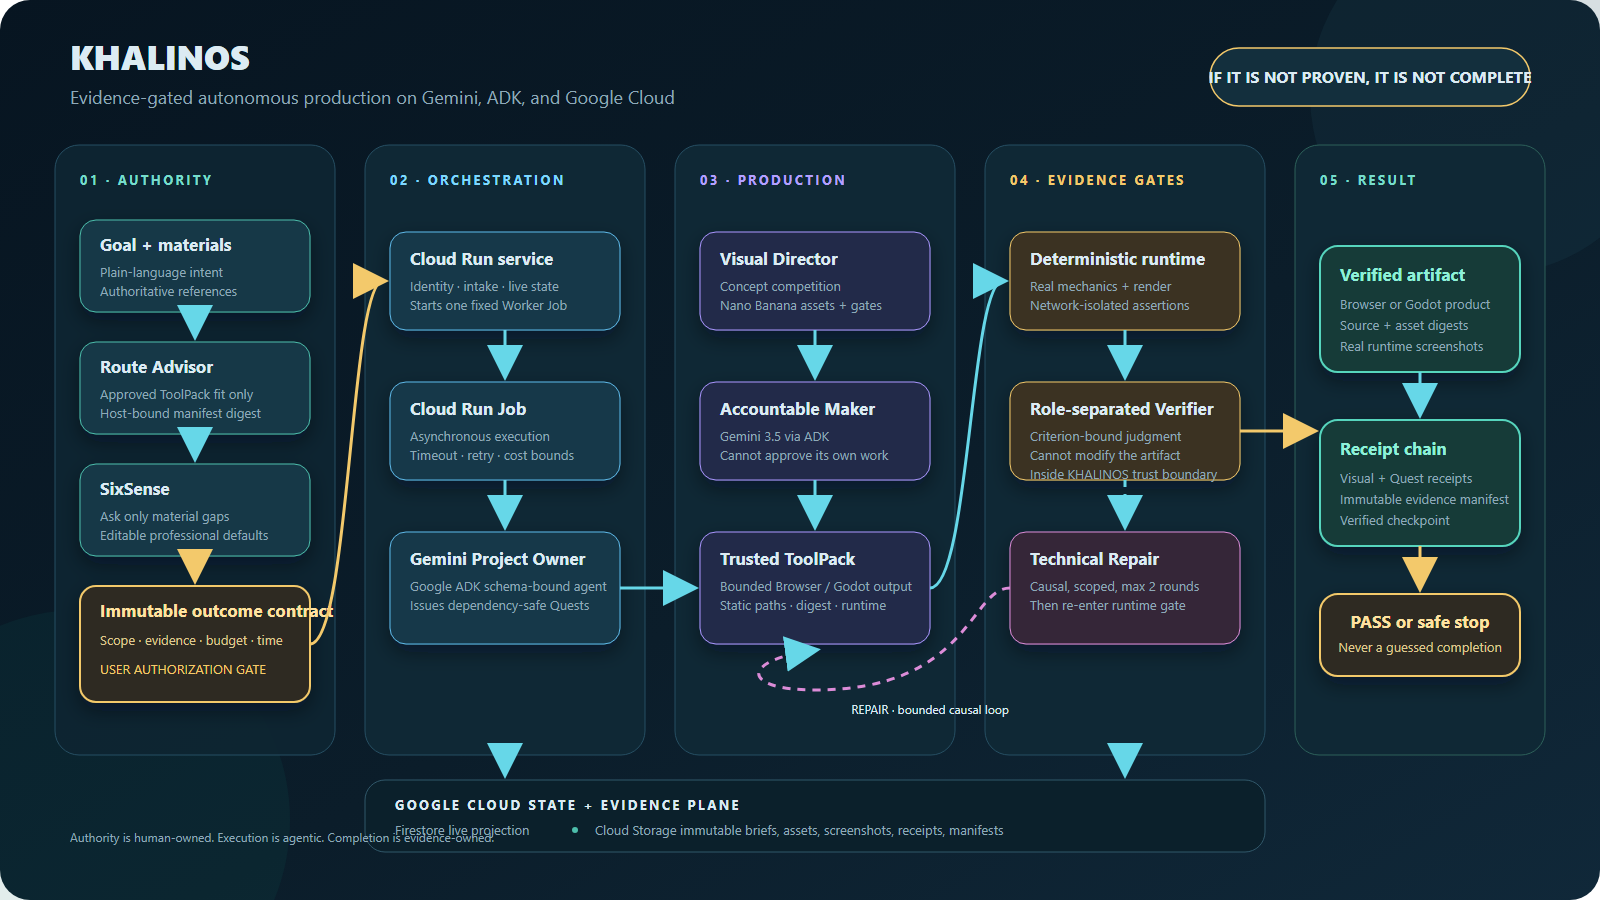
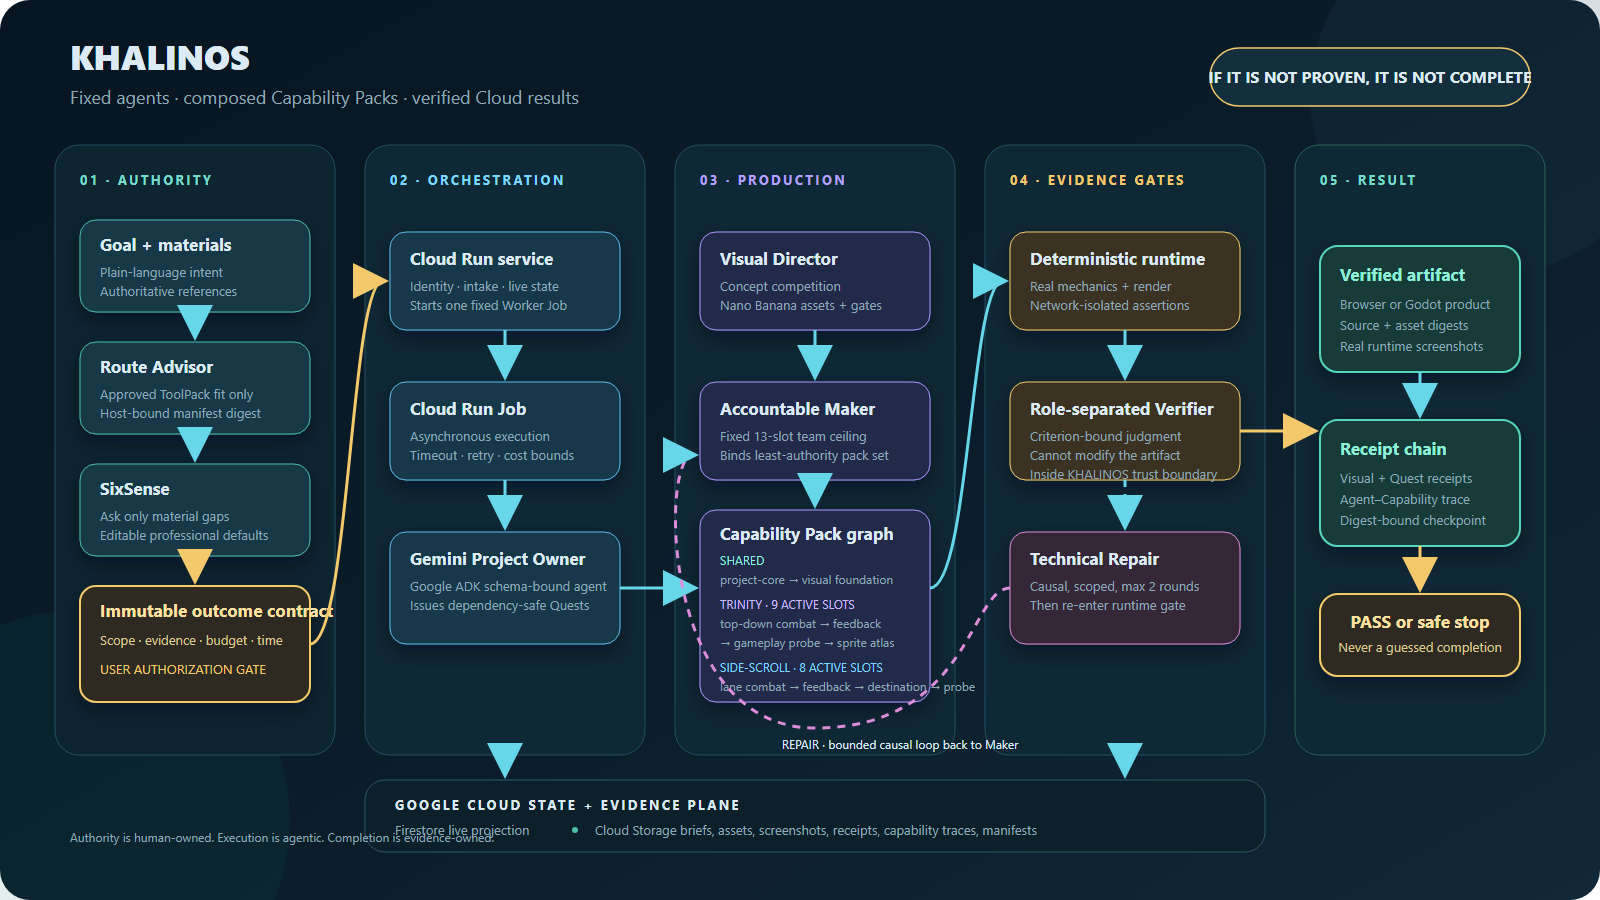
Document two-profile capability composition

diff --git a/README.md b/README.md
@@ -4,7 +4,7 @@
 
 > If it is not proven, it is not complete.
 
-KHALINOS is not a general-purpose coding chatbot and does not promise arbitrary repository completion. It separates authority, production, runtime verification, and judgment so the user does not become the hidden workflow engine. For a new project, a bounded Route Advisor compares the goal only with statically approved ToolPack manifests, explains exact fits, bounded alternatives, and incompatible routes, and waits for the user's confirmation. SixSense then inspects six project dimensions inside that selected capability boundary, asking only material unanswered questions. After authorization, a Gemini Project Owner issues an incremental Quest chain. Maker, deterministic Runtime Check, a separation-of-duties Verifier, and bounded Technical Repair remain separated by permissions and receipts. Browser products use multimodal visual selection; Godot has separate topology, Nano Banana visual-prototype, and bounded 2D gameplay vertical-slice profiles.
+KHALINOS is not a general-purpose coding chatbot and does not promise arbitrary repository completion. It separates authority, production, runtime verification, and judgment so the user does not become the hidden workflow engine. For a new project, a bounded Route Advisor compares the goal only with statically approved ToolPack manifests, explains exact fits, bounded alternatives, and incompatible routes, and waits for the user's confirmation. SixSense then inspects six project dimensions inside that selected capability boundary, asking only material unanswered questions. After authorization, a Gemini Project Owner issues an incremental Quest chain. Maker, deterministic Runtime Check, a separation-of-duties Verifier, and bounded Technical Repair remain separated by permissions and receipts. Browser products use multimodal visual selection. Godot work is composed from versioned Capability Packs: the verified top-down Trinity and side-scroll destination profiles share project, visual-foundation, and combat-feedback boundaries while retaining genre-specific mechanics and probes.
 
 The public entrance separates a no-sign-in Judge Demo from private work. Google OpenID Connect uses only `openid`, `email`, and `profile`; the verified Google subject is the owner boundary for uploads, intakes, runs, and Project Library records. A passed run registers its artifact digest, immutable source ZIP snapshot, and receipt chain as the project's latest verified checkpoint. External browser projects enter through an owner-bound Cloud Storage resumable session and deterministic ZIP admission before SixSense can reference them.
 
@@ -48,16 +48,17 @@ For judging, **Try Judge Demo** loads a bounded PUZZLE input-repair example with
 
 [![KHALINOS architecture: authority to verified result](docs/architecture/khalinos-architecture.svg)](docs/architecture/khalinos-architecture.svg)
 
-The standalone diagram shows the full authority boundary, Gemini/ADK orchestration, trusted ToolPack execution, deterministic and separation-of-duties evidence gates, bounded repair loop, and Google Cloud state/evidence plane. A 1600×900 [PNG export](docs/architecture/khalinos-architecture.png) is included for the Devpost page and demo video.
+The standalone diagram shows the full authority boundary, Gemini/ADK orchestration, fixed Agent–Capability bindings, the shared Godot Capability Pack graph, deterministic and separation-of-duties evidence gates, bounded repair loop, and Google Cloud state/evidence plane. A 1600×900 [PNG export](docs/architecture/khalinos-architecture.png) is included for the Devpost page and demo video.
 
 ## Safety and autonomy contract
 
-- The user authorizes one fixed five-file output surface and hard Quest/repair limits.
+- The user authorizes the selected ToolPack's exact bounded output surface and hard Quest/repair limits.
 - External ZIP admission currently accepts only that exact bounded browser profile. Godot, Unity, executables, symlinks, encrypted entries, traversal paths, extra files, oversized text, and high-ratio archives are rejected before execution.
 - The 30-minute setting is a per-execution runaway safety slice, not a general project deadline. The current browser micro-app profile is intentionally non-resumable, so an authorized run must fit one slice.
 - Browser new-product visual selection requires at least two deterministically renderable candidates and records raw-asset gate receipts, asset digests, the concept plan, screenshots, rubric scores, selected artifact digest, and selection receipt.
 - Godot visual-prototype selection has the same two-candidate minimum, but the host compiles every accepted PNG into bounded Godot scenes, imports the texture, proves scene loading and translucent composition, and captures three real 1280×720 frames through an isolated Xvfb display before multimodal selection.
-- Godot gameplay selection compiles a structured 2D top-down plan into a trusted scene and script. Its deterministic runtime probe must execute movement, enemy spawning, automatic abilities, shared health, and level choice before the separation-of-duties verifier can PASS; a real rendered gameplay frame and trusted visual-asset digest are also required.
+- Godot gameplay composition validates pack dependencies before materialization. The Trinity profile owns top-down survival mechanics, profession progression, gameplay probe, and sprite atlas; the side-scroll profile owns lane combat, destination progression, and its genre probe. Both consume `godot.combat-feedback`, which owns only attack-line, attack-range, basic-attack, skill/heal, and enemy-attack drawing primitives.
+- Every Godot Cloud result includes an Agent–Capability trace. The fixed ceiling remains 13 slots: Trinity activates 9 and side-scroll activates 8. The same accountable Maker slot consumes a different least-authority pack set for each profile; no new agent is invented to match a new genre.
 - The model never emits binary asset fields. The trusted host validates and attaches exactly one `assets/visual-foundation.png` sidecar, while Makers receive only its path, digest, and dimensions.
 - Image generation retries only transient 429/5xx responses, at most twice with backoff. Content rejection, invalid output, and non-transient client errors stop immediately.
 - Generated Browser products cannot use external URLs, network calls, dynamic code loading, or files outside the five text files plus the one approved PNG. Prohibited external CSS imports are removed at the trusted promotion boundary before verification.
@@ -79,9 +80,9 @@ The Browser visual-asset path passed an isolated production qualification on run
 
[1 lines of base64/hex data omitted]
 
-The separate Godot gameplay path passed its expanded isolated Cloud qualification in execution `khalinos-godot-toolpack-staging-wdz9v`. ToolPack `godot.gameplay` 1.3.0 executed all 29 deterministic mechanics, asset, and display checks with zero issues, including the 600-second session boundary, ten-level cadence, ordered three-option profession choices, summed party statistics, and bounded stored resurrection. The approved Linux Godot runtime also produced a real 1280x720 gameplay frame. The qualification receipt is preserved in `docs/evidence/toolpack-restoration/godot-gameplay-explicit-contract-cloud.json`.
+The composed Godot path passed two fresh Cloud qualifications on one Worker image, `sha256:615da3f80441c55e3eb0fca598db0abe8d44d1dd6ea6fd1b7815ce780797a24c`. Trinity run `78d1d06f2a034714b1d917ce6ce6f969` passed 45/45 deterministic mechanics, asset, sprite-atlas, pack-load, and display checks; the side-scroll run `fe2f3493c6af432e9ebd0b0c61852dcf` passed 18/18 horizontal movement, automatic combat, destination, pack-load, and display checks. Both had zero runtime issues and `cloud_workflow_execution` Agent–Capability traces. The comparison receipt is preserved in [`docs/evidence/capability-pack-composition/combat-feedback-cloud-qualification-20260821.json`](docs/evidence/capability-pack-composition/combat-feedback-cloud-qualification-20260821.json).
 
[2 lines of base64/hex data omitted]
 
 ## Local setup
 
@@ -168,19 +169,22 @@ Grant the API identity permission to run the fixed worker Job and act as its ide
 
 Trinity Survivors is a proof output, not KHALINOS's product boundary. The current bounded `godot.gameplay` ToolPack converted one immutable game brief into a playable Godot 4.7 vertical slice, executed its real mechanics and display runtimes, and completed only after deterministic checks and the role-separated Verifier passed. The Verifier is separated from planning and making inside KHALINOS; this is not a claim of an external audit organization.
 
-- Run ID: `8be1978415eb40b99d4dddbe8d143c33`
+- Run ID: `78d1d06f2a034714b1d917ce6ce6f969`
 - Result: `PASS` — `Godot gameplay vertical slice passed real mechanics, rendering, and independent verification.`
-- Cloud deployment: project `khalinos-agent-20260818`, region `asia-northeast3`, API revision `khalinos-00042-jfb`, Job `khalinos-worker`, execution `khalinos-worker-x2xfc`
-- Worker image: `sha256:3ad7602ca48d0baebd53c04064cffe582984c7ed21e85be63c4e21bd36d419ed`
[1 lines of base64/hex data omitted]
-- Agent work: 22 Gemini calls; four immutable receipts (one Visual Selection and three Quest receipts)
-- Runtime proof: 44 deterministic Godot mechanics, asset, sprite-atlas, and display checks passed; Sprite Gate passed; zero issues
[4 lines of base64/hex data omitted]
+- Cloud deployment: project `khalinos-agent-20260818`, region `asia-northeast3`, Job `khalinos-worker`, execution `khalinos-worker-x74vs`
+- Worker image: `sha256:615da3f80441c55e3eb0fca598db0abe8d44d1dd6ea6fd1b7815ce780797a24c`
[1 lines of base64/hex data omitted]
+- Agent work: 18 Gemini calls; three immutable receipts (one Visual Selection and two Quest receipts)
+- Runtime proof: 45 deterministic Godot mechanics, asset, sprite-atlas, shared-pack, and display checks passed; Sprite Gate passed; zero issues
[5 lines of base64/hex data omitted]
 
-![Trinity Survivors real Godot render](docs/evidence/trinity-survivors/cloud-run-8be19784/godot-gameplay-render.png)
+![Representative Trinity Survivors real Godot render from the retained earlier evidence set](docs/evidence/trinity-survivors/cloud-run-8be19784/godot-gameplay-render.png)
+
+The frame above is the retained render from the earlier `8be19784...` evidence set, not a screenshot attributed to the latest run. The latest two-profile qualification is recorded by the digest-bound comparison receipt linked above.
 
 The immutable brief, Quest plan, Visual Selection receipt, three Quest receipts, final artifact manifest, Sprite Gate result, deterministic evidence, raw Godot probe receipt, and rendered frame are preserved in [`docs/evidence/trinity-survivors`](docs/evidence/trinity-survivors).
 
@@ -191,15 +195,37 @@ These are direct log and artifact measurements, not estimated labor or cost savi
 | Measure | Observed value |
 | --- | ---: |
 | Human interventions after immutable authorization | 0 |
-| Cloud Run Job duration | 9m 38.93s |
-| Gemini calls | 22 |
-| Generated source files | 9 |
-| Deterministic checks | 44/44 PASS |
-| Role-separated receipts | 4 |
+| Cloud Run Job duration | 8m 4.87s |
+| Gemini calls | 18 |
+| Generated source files | 10 |
+| Deterministic checks | 45/45 PASS |
+| Role-separated receipts | 3 |
 | Technical Repair rounds | 0 |
 | Final runtime issues | 0 |
 
 The evidence proves a bounded vertical slice with executable mechanics, rendering, and receipt-gated verification. It does not prove general-purpose repository autonomy, production-scale reliability, external organizational independence, or polished commercial game quality. The single retained display capture is a real runtime frame, but the temporal mechanics are proven by the typed Godot probe rather than by claiming that one screenshot shows every state. The failure-and-recovery ledger is preserved beside the run evidence.
+
+## Side-scroll destination: verified composition proof
+
+The experimental side-scroll profile reuses the same project, visual-foundation, and combat-feedback boundaries while replacing Trinity's genre chain with lane combat, destination progression, and a side-scroll probe. This is evidence that fixed KHALINOS agent slots can consume different compatible pack combinations; it is not a claim that arbitrary game genres are already supported.
+
+- Run ID: `fe2f3493c6af432e9ebd0b0c61852dcf`
+- Result: `PASS` — `Godot side-scroll journey passed real mechanics, rendering, and independent verification.`
+- Cloud Run Job execution: `khalinos-worker-2ppkr`, completed in 2m 16.72s
[1 lines of base64/hex data omitted]
+- Agent work: 12 Gemini calls; three immutable receipts
+- Runtime proof: 18/18 deterministic mechanics, pack-load, and display checks passed; zero issues
[4 lines of base64/hex data omitted]
+
+| Profile | Active fixed slots | Accountable Maker packs | Genre-specific verifier |
+| --- | ---: | --- | --- |
+| Trinity top-down | 9 | `project-core`, `top-down-auto-combat`, `combat-feedback` | `gameplay-probe` plus Sprite Gate |
+| Side-scroll destination | 8 | `project-core`, `side-scroll-lane-combat`, `combat-feedback`, `destination-progression` | `side-scroll-probe` |
+
+The fixed ceiling is 13 agent slots and `new_agent_slots_created` is false. The role-separated Verifiers remain inside the KHALINOS trust boundary; deterministic Godot probes and digest-bound evidence compensate for, but do not turn them into, external organizational audits.
 
 ## Earlier verified Browser proof
 
